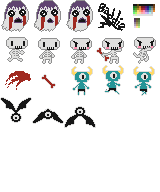
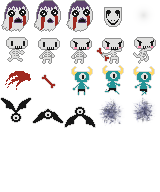
Agregado enemigo máscara, cambiadas cosas tontas de partículas, arreglado fantasma

diff --git a/mask.cpp b/mask.cpp
@@ -1,0 +1,71 @@
+#include "enemy.h"
+#include "mask.h"
+#include <iostream>
+
+mask::mask(LTexture* sprt, int X, int Y) : enemy(sprt, X, Y){
+	unsigned int frms[] = {3};
+	movingAnim = new animation(1, 0, false, spritesheet, frms, 32);
+	currentAnim = movingAnim;
+	
+	accel = 1;
+	maxSpeedX = 1;
+	maxSpeedY = 1;
+	visible = 2;
+	alpha = 255;
+	
+	colBox.x = x+4;
+	colBox.y = y;
+	colBox.w = 24;
+	colBox.h = 32;
+	
+	lives = 10;
+	maxLives = lives;
+}
+
+mask::~mask(){
+	if (movingAnim != NULL){
+		delete movingAnim;
+		movingAnim = NULL;
+	}
+}
+
+void mask::step(level* lvl){
+	if (alive){
+		
+		lvl->getPlayerPos(playerX, playerY);
+		playerX = playerX - x;
+		playerY = playerY - y;
+		normalized = sqrt(playerX*playerX + playerY*playerY);
+		
+		spdX += double(playerX)/normalized;
+		spdY += double(playerY)/normalized;
+	
+		if (((x+32 >= 1088) && (spdX > 0)) || ((x <= 224) && (spdX < 0))){
+			spdX = -spdX*2;
+		}
+		if (((y+32 >= 416) && (spdY > 0)) || ((y <= 32) && (spdY < 0))){
+			spdY = -spdY*2;
+		}
+		
+	}
+	
+	enemy::step(lvl);
+	facingRight = true;
+	
+	colBox.x = x+4;
+	colBox.y = y;
+}
+
+void mask::draw(painter* pintor){	
+	spritesheet->setBlendMode(1);
+	spritesheet->setAlpha(50);
+	for (int i = 0; i<10; i++){
+		pintor->drawEx(spritesheet, 96+32*rand()%2, 96, 32, 32, x-9+rand()%5, y-9+rand()%5, 48, 48, rand()%360, rand()%4);
+		//Podemos tener algunas discrepancias entre versión espejo y real
+		pintor->drawEx(spritesheet, 96+32*rand()%2, 96, 32, 32, x-9+rand()%5, 448+(320-y*0.7143)-48*0.7143+5, 
+			48, 48*0.7143, rand()%360, rand()%4); 
+	}
+	spritesheet->setBlendMode(0);
+	spritesheet->setAlpha(255);
+	enemy::draw(pintor);
+}

diff --git a/particles.cpp b/particles.cpp
@@ -260,10 +260,20 @@ bool emitter::isAlive(){
 	return alive;
 }
 
+void emitter::setPos(int X, int Y){
+	x = X;
+	y = Y;
+}
+
+
+
 colourExplosion::colourExplosion(LTexture* sprt, int X, int Y) : emitter(sprt, 1, X, Y){
 	timer = 0;
 	maxTimer = 1;
-	rate = 5+rand()%2;
+	rate = 10+rand()%2;
+	r = rand()%256;
+	g = rand()%256;
+	b = rand()%256;
 }
 
 colourExplosion::~colourExplosion(){
@@ -276,7 +286,7 @@ void colourExplosion::emit(){
 	particle* part = NULL;
 	double spdX, spdY, speed;
 	for (int i = 0; i < rate; i++){
-		speed = (rand()%50-25)/10;
+		speed = (rand()%50-25)/5;
 		spdX = cos((i/double(rate))*2*3.1415)*speed;
 		spdY = sin((i/double(rate))*2*3.1415)*speed;
 		
@@ -287,7 +297,8 @@ void colourExplosion::emit(){
 		part->setAlpha(90);
 		part->setBlend(1);
 		part->setAngle(rand()%360);
-		part->setColor(rand()%256, rand()%256, rand()%256);
+		part->setColor(r, g, b);
+		//part->setColor(rand()%256, rand()%256, rand()%256);
 		part->setFriction(0.98);
 		part->setPermanence(true);
 		particles.push_back(part);
@@ -298,7 +309,7 @@ void colourExplosion::step(level* lvl){
 	vector<particle*>::iterator it = particles.begin();
 	while(it != particles.end()){
 		if ((*it) != NULL && (*it)->isAlive()){
-			(*it)->setScale((*it)->getScale()*1.08);
+			(*it)->setScale((*it)->getScale()*1.02);
 			it++;
 		} else {
 			if (*it != NULL)

diff --git a/level.cpp b/level.cpp
@@ -4,6 +4,7 @@
 #include "skelleton.h"
 #include "demobat.h"
 #include "imp.h"
+#include "mask.h"
 #include <iostream> //debug
 
 using namespace std;
@@ -688,6 +689,11 @@ bool level::isPlayer(int x, int y) const{
 		(y >= colBox->y) && (y <= colBox->y+colBox->h));
 	
 }
+
+void level::getPlayerPos(int &x, int &y){
+	jugador->getPos(x, y);
+}
+
 //determina si un punto está sobre algo sólido
 bool level::isSolid(int x, int y) const{
 	
@@ -1055,6 +1061,8 @@ int level::load(std::istream& is, map<string, pair<int, int> >& posEnSheet){
 					toSpawn = new imp(enemySprites, pos.x, pos.y);
 				} else if (str == "demobat"){
 					toSpawn = new demobat(enemySprites, pos.x, pos.y);
+				}else if (str == "mask"){
+					toSpawn = new mask(enemySprites, pos.x, pos.y);
 				} else {
 					std::cout << "Falla cargar enemigos. Archivo corrupto.\n";
 					exit(1);

diff --git a/mask.h b/mask.h
@@ -1,0 +1,20 @@
+#ifndef _THE_MASKED_MAN_WHITHOUT_THE_MAN_
+#define _THE_MASKED_MAN_WHITHOUT_THE_MAN_
+
+#include "enemy.h"
+#include "particles.h"
+
+class mask : public enemy{
+public:
+	mask(LTexture* sprt, int x, int y);
+	~mask();
+	
+	virtual void step(level*);
+	virtual void draw(painter*);
+private:
+	animation* movingAnim;
+	int playerX, playerY;
+	double normalized; //meh
+};
+
+#endif

diff --git a/level.h b/level.h
@@ -48,6 +48,7 @@ public:
 	
 	//determina si un punto está sobre el jugador
 	bool isPlayer(int x, int y) const;
+	void getPlayerPos(int &x, int &y);
 	//determina si un punto está sobre algo sólido
 	bool isSolid(int x, int y) const;
 	// Determina si hay algo sólido en una línea horizontal del punto x1 al x2

diff --git a/ghost.cpp b/ghost.cpp
@@ -37,9 +37,9 @@ void ghost::step(level* lvl){
 		
 		if (timer <= 0){
 			srand(time(NULL)+(long int)(this));
-			spdX += (rand()%10-5)/2.0;
+			spdX += (rand()%10-4.5)/2.0;
 			srand(time(NULL)+(long int)(this));
-			spdY += (rand()%10-5)/2.0;
+			spdY += (rand()%10-4.5)/2.0;
 			timer = rand()%2+1;
 		}
 	

diff --git a/particles.h b/particles.h
@@ -80,6 +80,7 @@ public:
 	
 	virtual void emit();
 	virtual void step(level*);
+	void setPos(int X, int Y);
 	void draw(painter*, LTexture*);
 	
 	bool isAlive();
@@ -105,7 +106,7 @@ public:
 	void step(level*);
 	
 private:
-	
+	int r, g, b;
 };
 
 class coinSparkle : public emitter{
